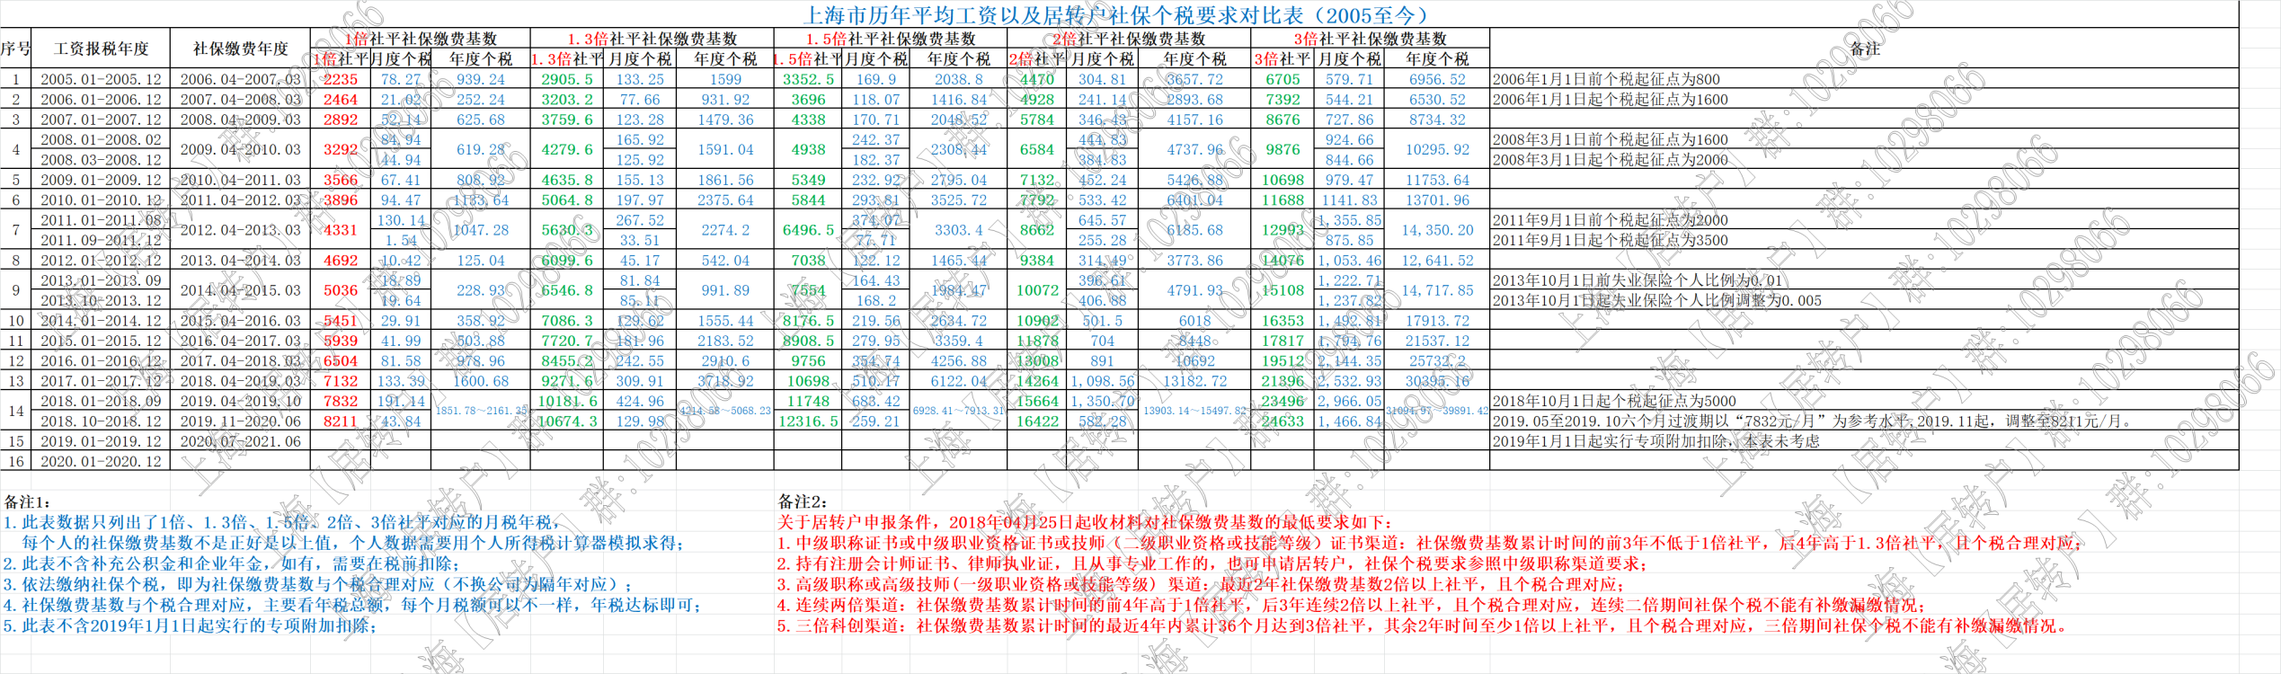
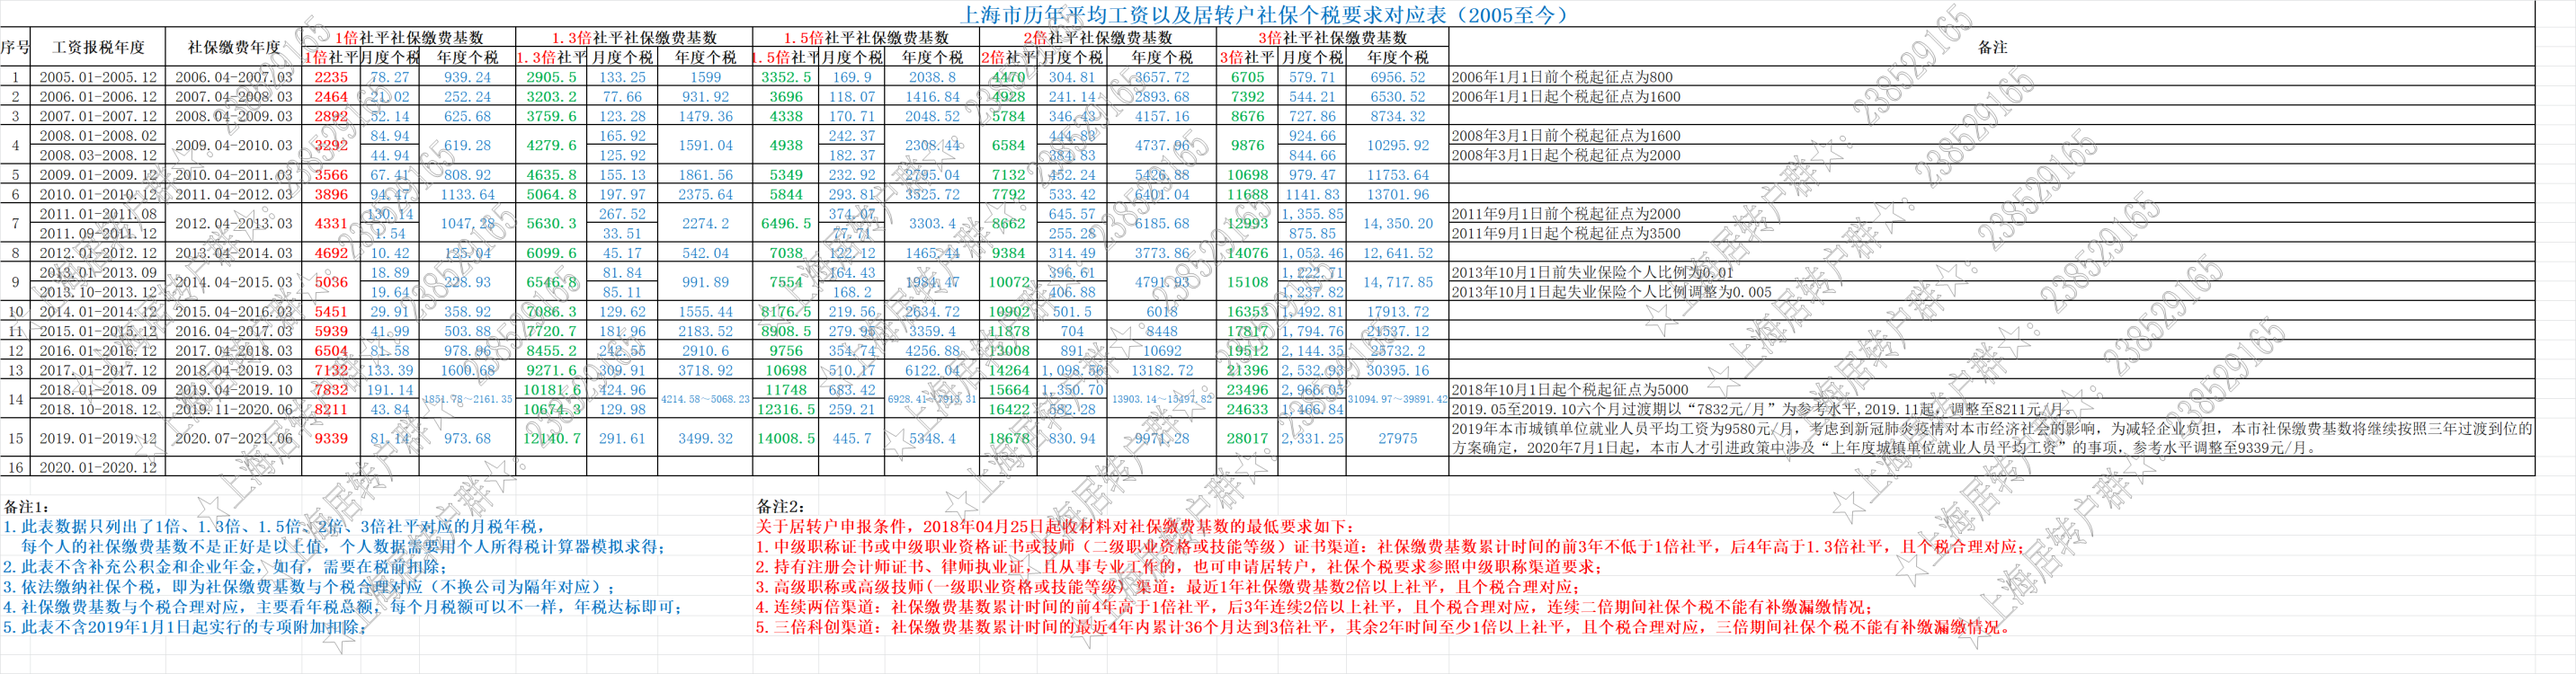
update 2020 datas

diff --git a/README.md b/README.md
@@ -60,7 +60,7 @@
 >
 > 2. [自助经办系统](http://ggfw.rsj.sh.gov.cn/)：http://ggfw.rsj.sh.gov.cn/
 
-##### 11. [上海公共服务平台]( http://rsj.sh.gov.cn/201712333/index.shtml)：http://rsj.sh.gov.cn/201712333/index.shtml
+##### 11. [上海公共服务平台（查公示名单）](http://rsj.sh.gov.cn/index.html)：http://rsj.sh.gov.cn/index.html
 
 ##### 12. 相关政策
 > 1. [五年三倍有效期延至 有效期至 2022 年 10 月 31 日](http://jzzjf.rsj.sh.gov.cn/jzzjf/pingfen/zc5.jsp?from=groupmessage&isappinstalled=0)：http://jzzjf.rsj.sh.gov.cn/jzzjf/pingfen/zc5.jsp?from=groupmessage&isappinstalled=0
